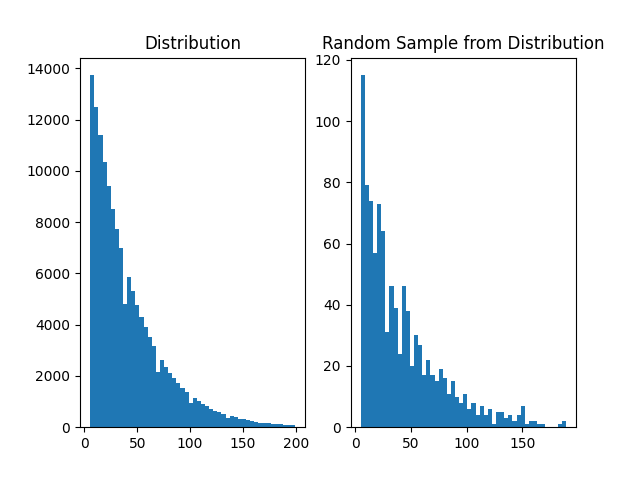
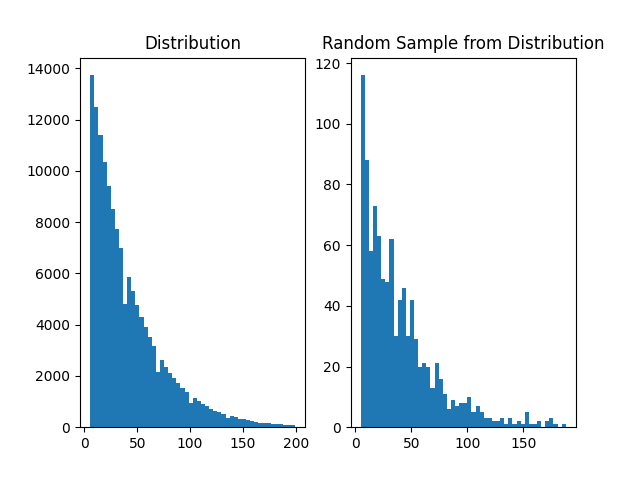
Move sampling logic to later

diff --git a/Standalone/PostTrainingGan4DS.py b/Standalone/PostTrainingGan4DS.py
@@ -125,6 +125,7 @@ epochs = data['epochs']
 epoch_check = data['epochCheck']
 conditions = []
 allNorms = []
+
 for var in variables_of_interest:
     model = tf.keras.models.load_model("../G4_RUNS/serial_architecture/working_3D_cgan_s1_s2_f200/sessions/session_1_/model/"+var+"_weights.model")
     training_ds = getData(energies, [var])
@@ -171,12 +172,19 @@ for var in variables_of_interest:
     conditions.append(currentCond)
     allNorms.append(normalisation)
 
-pickle.dump( conditions, open("./final_result/testing_data.p", "wb" ) )
+all_stuff={conditions,allNorms}
+pickle.dump( all_stuff, open("./final_result/testing_data.p", "wb" ) )
+
+conditions = pickle.load(
+            open("./final_result/testing_data.p", "rb"))
 plt.figure()
 selected_energies=get_distributed_energies('sampling_distributions/Ar_c1dat_m2-5.dat')
 #selected_energies = [str(e) for e in selected_energies]
 for num,cond in enumerate(conditions):
-    conditions[num]=[data[s] for s in selected_energies]
+    conditions[num]=[conditions[num][s] for s in selected_energies]
+
+for num in range(len(allNorms)):
+    allNorms[num]= np.asarray(np.ones(len(conditions[0]))*allNorms[num][0])
 # order is [s1,s2,f200]
 # This graph is f200 vs s1
 x = np.concatenate(np.dot(conditions[-1], allNorms[-1][0]))
